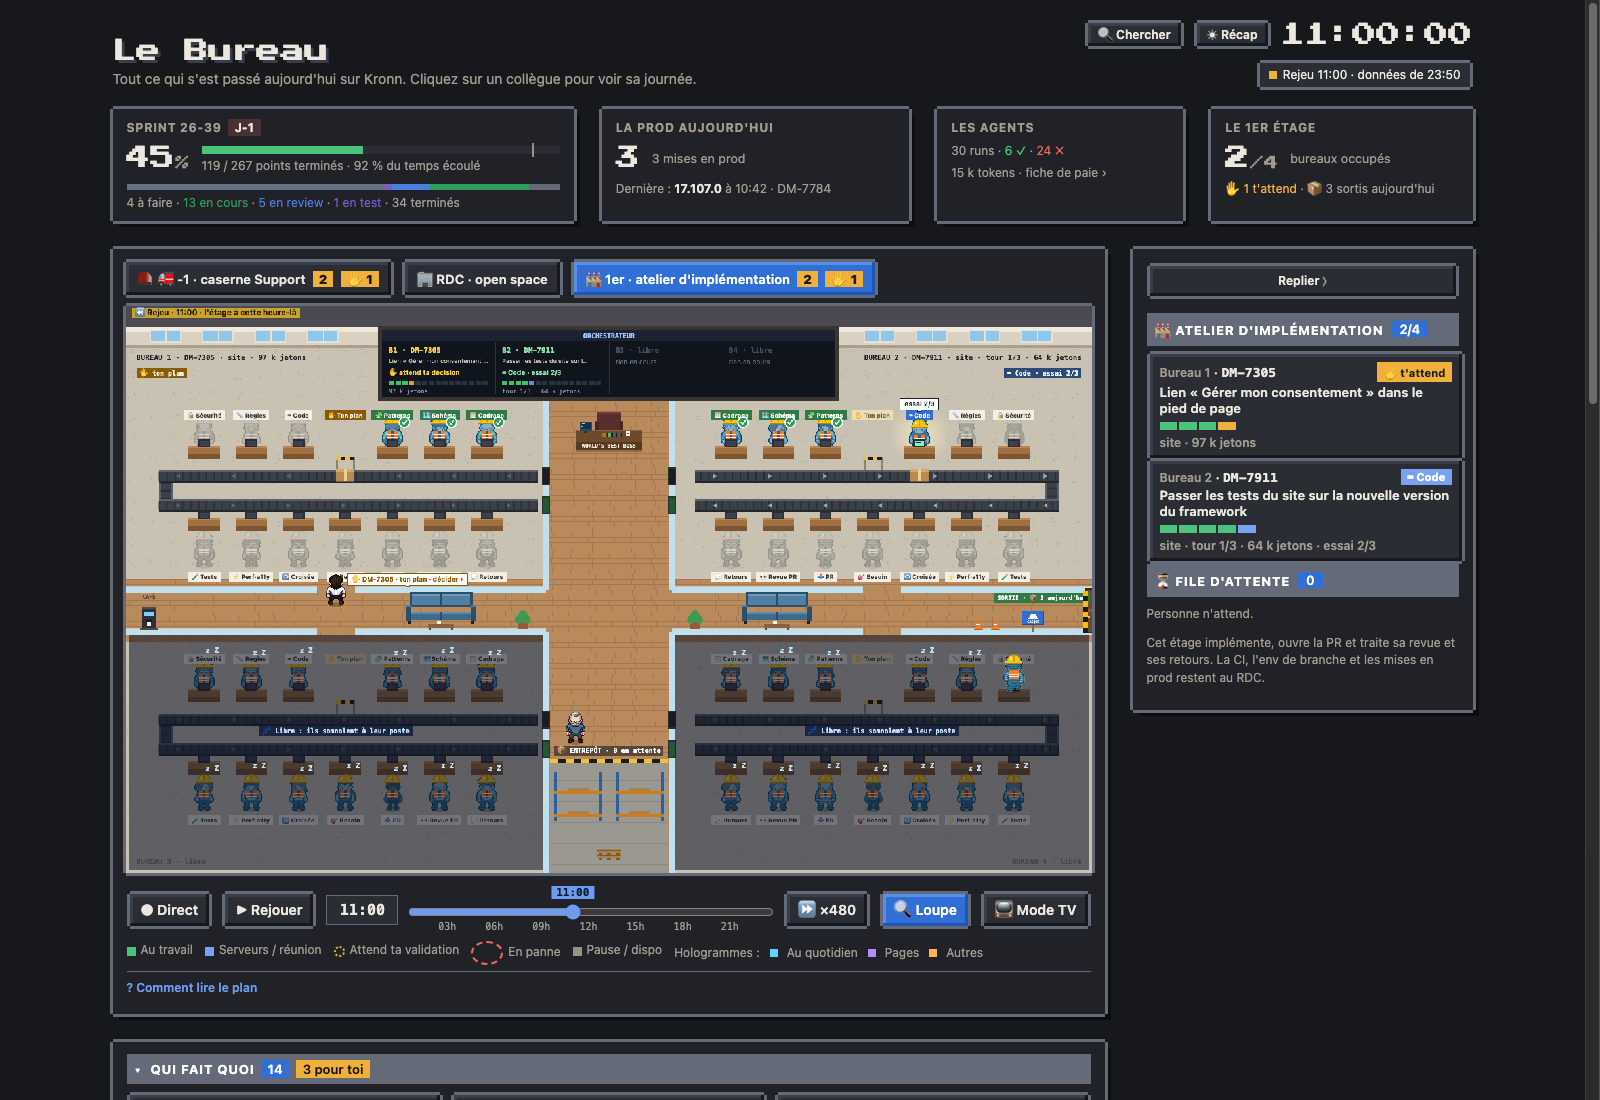
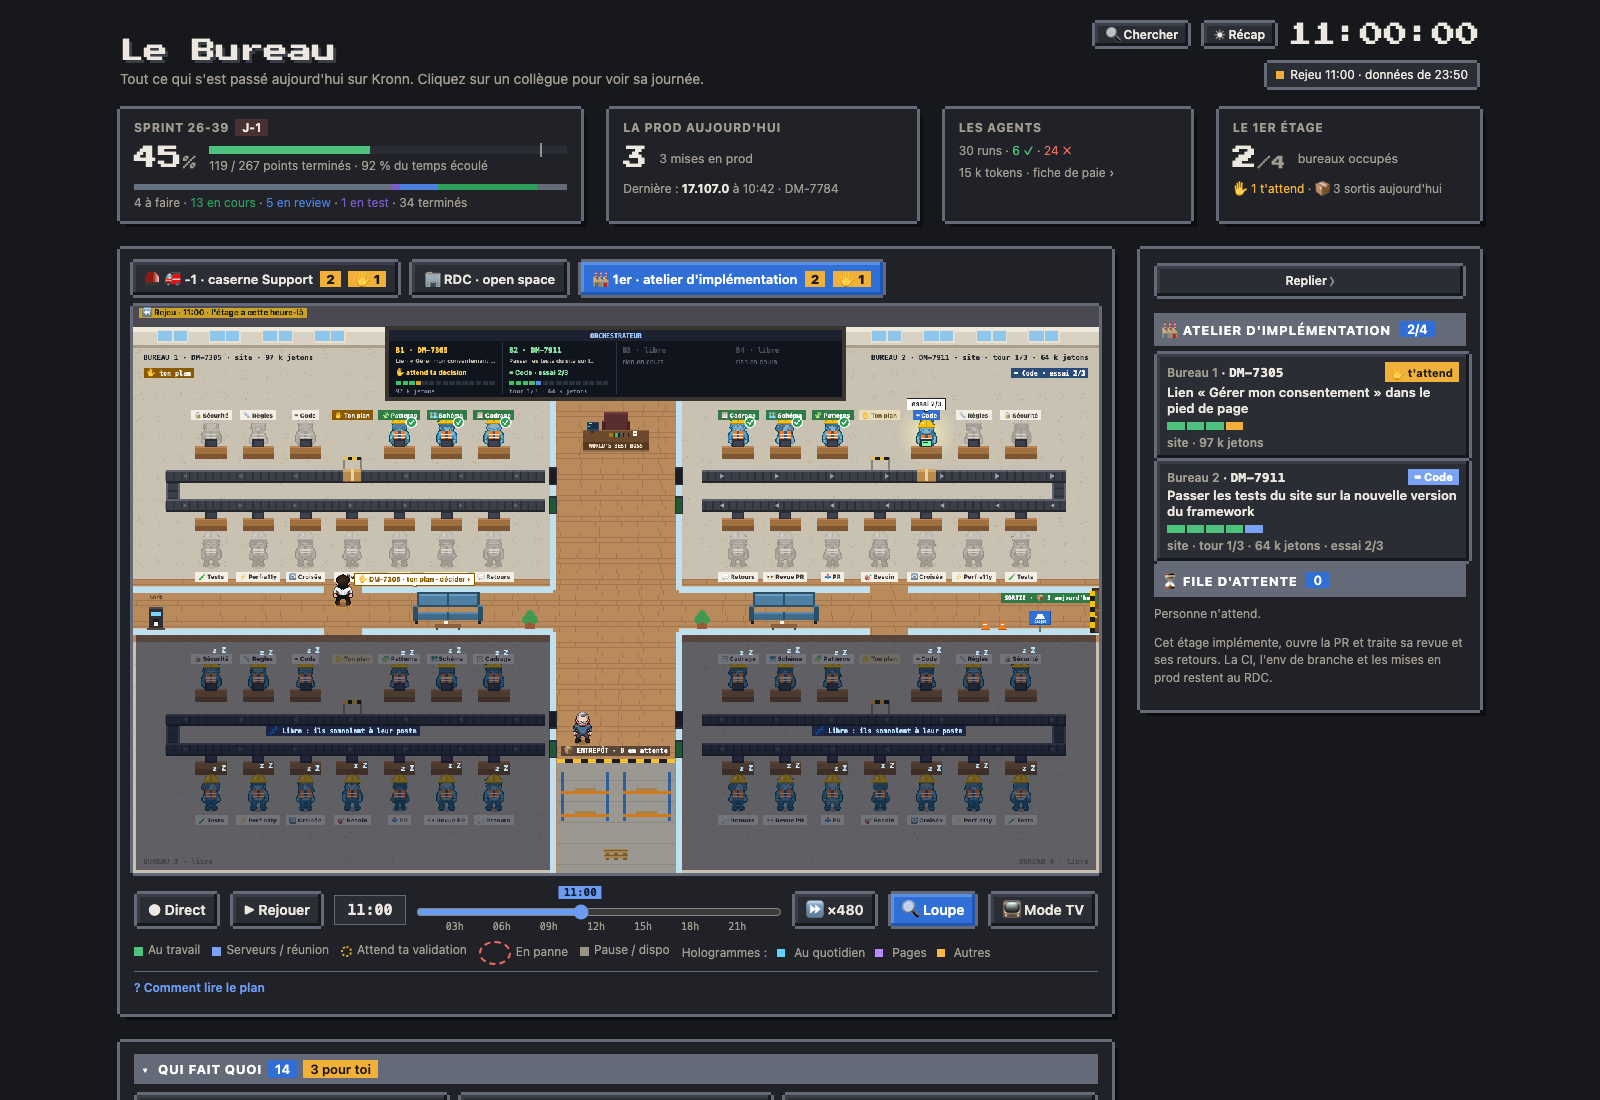
fix(etages): le ménage balaie dans les bureaux, la nuit mieux éclairée
- 1er : l'agent d'entretien restait planté à la porte de chaque bureau à se
  tourner de gauche à droite (les trois quarts de chaque étape), puis
  attendait plusieurs minutes à la sortie. Il balaie maintenant en parcourant
  l'allée de chaque bureau d'un bout à l'autre et celle de l'entrepôt
  (atCleanStops : sweep), et repart dès qu'il a rejoint la sortie.
- Nuit, 1er : chaque poste d'un bureau occupé sous sa lampe, d'après sa vraie
  place (les taches fixes rataient les bureaux du bas), la pièce et le tapis
  plus clairs, une lumière plus large pour ceux qui marchent, la lampe du
  bureau du boss toujours allumée.
- Nuit, -1 : la lampe du chef de centre plus forte, les pompiers en route
  dans leur lumière.
- Guides, CHANGELOG, captures de nuit, test de la tournée.

diff --git a/page/src/68-atelier.js b/page/src/68-atelier.js
@@ -582,8 +582,10 @@ const atCleaner=()=>chars.find(c=>c.on==='cleaning')||null;
 function atCleanVisit(c,t){const v=c&&atelierOn()&&cleaningVisit(c,t);return v?{s:v.e,e:v.e+AT_CLEAN_DUR}:null;}
 function atCleanStops(){
   const st=[{p:AT_EXIT,room:'la porte',i:null}];
-  for(const i of [1,3,2,0]){const g=AT_G[i];st.push({p:{x:g.door.x,y:g.aisle},room:'le bureau '+(i+1),i});}
-  return st.concat([{p:{x:AT_MX+1.4*AT_TS,y:20.3*AT_TS},room:'l\'entrepôt',i:null},{p:AT_EXIT,room:'la porte',i:null}]);
+  for(const i of [1,3,2,0]){const g=AT_G[i], p={x:g.door.x,y:g.aisle}, a=(g.x0+1.2)*AT_TS, b=(g.x1-1.2)*AT_TS;
+    st.push({p,room:'le bureau '+(i+1),i,sweep:[p,{x:a,y:g.aisle},{x:b,y:g.aisle},p]});} // l'allée du bureau, d'un bout à l'autre
+  const e={x:AT_MX,y:AT_DOCK.y};
+  return st.concat([{p:e,room:'l\'entrepôt',i:null,sweep:[e,{x:AT_MX,y:AT_POP.y},e]},{p:AT_EXIT,room:'la porte',i:null}]);
 }
 // point à la fraction f d'une ligne brisée, et la direction du segment
 function atAlong(pts,f){
@@ -598,7 +600,9 @@ function atCleanerAt(c,t){
   const v=atCleanVisit(c,t);if(!v||t<v.s||t>=v.e)return null;
   const st=atCleanStops(), n=st.length-1, k=(t-v.s)/(v.e-v.s)*n, j=Math.min(n-1,Math.floor(k)), f=k-j, a=st[j].p, b=st[j+1].p;
   if(f<.25){const q=atAlong([a,{x:a.x,y:AT_MY},{x:b.x,y:AT_MY},b],f/.25);return {x:q.x,y:q.y,dir:q.dir,moving:true,stop:st[j+1],v};}
-  return {x:b.x,y:b.y,dir:Math.floor(t/2000)%2?'left':'right',moving:false,stop:st[j+1],v};
+  // il balaie en avançant lentement dans la pièce (jamais planté à la porte à se tourner de gauche à droite)
+  const sw=st[j+1].sweep;if(!sw)return null; // arrivé à la porte de sortie : il est reparti (jamais planté à l'attendre)
+  const q=atAlong(sw,(f-.25)/.75);return {x:q.x,y:q.y,dir:q.dir,moving:false,sweeping:true,stop:st[j+1],v};
 }
 const atCleanLabel=m=>m.moving?'Fait le ménage du 1er étage : va vers '+m.stop.room:'Fait le ménage du 1er étage : '+m.stop.room+' · repart vers '+hm(m.v.e);
 // ---------- loupe (44-loupe.js) au 1er étage : les événements forts de l'atelier ----------
@@ -676,10 +680,14 @@ function atNight(slots,now){
     m.setTransform(1,0,0,1,0,0);m.globalCompositeOperation='source-over';m.clearRect(0,0,W_,H_);
     m.fillStyle=`rgba(${tint[0]},${tint[1]},${tint[2]},${dark})`;m.fillRect(0,0,W_,H_);
     m.setTransform(1/LQ,0,0,1/LQ,0,0);m.globalCompositeOperation='destination-out';
-    slots.forEach((r,i)=>{if(!r&&!(AT_MEM.clean&&AT_MEM.clean.stop.i===i))return;const g=AT_G[i];m.fillStyle='rgba(0,0,0,.25)';m.fillRect(g.x0*AT_TS,g.y0*AT_TS,(g.x1-g.x0)*AT_TS,(g.y1-g.y0)*AT_TS);
-      for(let x=g.x0+2;x<g.x1;x+=4)for(const y of [g.y0+3,g.y0+7.5])softSpot(m,x*AT_TS,y*AT_TS,2.6*AT_TS,.6);});
-    for(const h of AT_HITS)if(h.kind==='agent'||h.kind==='bernard'||h.kind==='cleaner'||h.kind==='pompier')softSpot(m,h.x+14,h.y+30,30,.8);
-    for(const q of AT_LIT)softSpot(m,q.x,q.y-26,30,.8); // comme au RDC (42-light.js) : le boss, et ceux qui marchent, dans leur lumière
+    slots.forEach((r,i)=>{const sweep=AT_MEM.clean&&AT_MEM.clean.stop.i===i;if(!r&&!sweep)return;const g=AT_G[i];
+      m.fillStyle=r?'rgba(0,0,0,.45)':'rgba(0,0,0,.25)';m.fillRect(g.x0*AT_TS,g.y0*AT_TS,(g.x1-g.x0)*AT_TS,(g.y1-g.y0)*AT_TS);
+      if(!r)return;
+      for(const p of AT_DESKS){const s=atSpot(g,p.k), y=s.row===1?g.feet1:g.feet2;softSpot(m,s.x,y-24,1.7*AT_TS,.9);} // chaque poste, sous sa lampe
+      softSpot(m,(g.bx0+g.bx1)/2,(g.b1+g.b2)/2+g.H/2,(g.bx1-g.bx0)/2,.5);}); // le tapis
+    for(const h of AT_HITS)if(h.kind==='agent'||h.kind==='bernard'||h.kind==='cleaner'||h.kind==='pompier')softSpot(m,h.x+14,h.y+30,42,.95);
+    for(const q of AT_LIT)softSpot(m,q.x,q.y-26,42,.95); // comme au RDC (42-light.js) : le boss, et ceux qui marchent, dans leur lumière
+    softSpot(m,AT_CHAIR.x,AT_CHAIR.y-14,3.2*AT_TS,.9); // la lampe du bureau du boss, toujours allumée
     softSpot(m,23*AT_TS,2.6*AT_TS,6*AT_TS,.7); // le grand tableau
     softSpot(m,46*AT_TS-10,AT_HY0*AT_TS+20,40,.5);softSpot(m,1.1*AT_TS,AT_HY1*AT_TS-20,30,.5); // la sortie, la machine à café
     const l=AT_NIGHT_CV[1].getContext('2d');l.clearRect(0,0,W_,H_);l.filter='blur(3px)';l.drawImage(AT_NIGHT_CV[0],0,0);l.filter='none';
@@ -708,7 +716,7 @@ function renderAtelier(now){
     if(!a)continue;a.moving=w.phase!=='stay';a.pose='stand';a._st={st:'idle'};a._at={i:w.i,k:w.k,s:'wander'};people.push([a,null,false]);
     atHit('agent',w.walk.pos.x-14,w.walk.pos.y-56,28,58,{i:w.i,k:w.k});}
   atScenes(now,dt,people);
-  if(AT_MEM.clean){const m=AT_MEM.clean, a=Object.assign(Object.create(Object.getPrototypeOf(cl)),cl,{pos:{x:m.x,y:m.y},tile:null,dir:m.dir,moving:m.moving,pose:'stand',present:true,_st:{st:'idle'}});
+  if(AT_MEM.clean){const m=AT_MEM.clean, a=Object.assign(Object.create(Object.getPrototypeOf(cl)),cl,{pos:{x:m.x,y:m.y},tile:null,dir:m.dir,moving:m.moving||!!m.sweeping,pose:'stand',present:true,_st:{st:'idle'}});
     const [dx,dy]={left:[-20,0],right:[20,0]}[m.dir]||[20,2];
     people.push([a,()=>drawCart({x:m.x+dx,y:m.y+dy}),false,()=>{if(!m.moving)E('🧹',m.x,m.y-66,12);}]);atHit('cleaner',m.x-14,m.y-56,28,58,{});}
   atBoss(slots,now,dt,people);

diff --git a/page/src/68-caserne.js b/page/src/68-caserne.js
@@ -382,8 +382,9 @@ function csNight(slots,now){
     const m=CS_NIGHT_CV[0].getContext('2d');m.setTransform(1,0,0,1,0,0);m.globalCompositeOperation='source-over';m.clearRect(0,0,W_,H_);
     m.fillStyle='rgba(10,14,40,.5)';m.fillRect(0,0,W_,H_);m.setTransform(1/LQ,0,0,1/LQ,0,0);m.globalCompositeOperation='destination-out';
     slots.forEach((s,b)=>{if(!s)return;const z=CS_G[b];softSpot(m,z.cx,(CS_DY1-1)*T,4*T,.7);softSpot(m,z.cx,(CS_R1+.5)*T,4.5*T,.8);softSpot(m,z.cx,(CS_R2+.3)*T,4*T,.7);});
-    softSpot(m,40.5*T,23.4*T,4.5*T,.55);softSpot(m,40.6*T,4.2*T,5*T,.7);softSpot(m,CS_POLE.x,CS_POLE.y1-1.2*T,2.2*T,.6);softSpot(m,CS_DESK.x,CS_DESK.y,2.5*T,.45);
-    for(const q of CS_LIT)softSpot(m,q.x,q.y-26,30,.8); // le capitaine dans sa lumière, à son bureau ou en route vers la vanne
+    softSpot(m,40.5*T,23.4*T,4.5*T,.55);softSpot(m,40.6*T,4.2*T,5*T,.7);softSpot(m,CS_POLE.x,CS_POLE.y1-1.2*T,2.2*T,.6);softSpot(m,CS_DESK.x,CS_DESK.y-10,3.6*T,.9); // la lampe du bureau du chef de centre, toujours allumée
+    for(const q of CS_LIT)softSpot(m,q.x,q.y-26,42,.95); // le capitaine dans sa lumière, à son bureau ou en route vers la vanne
+    for(const w of CS_MEM.walk||[])if(w.pos)softSpot(m,w.pos.x,w.pos.y-26,40,.9); // les pompiers qui descendent, courent ou remontent
     const l=CS_NIGHT_CV[1].getContext('2d');l.clearRect(0,0,W_,H_);l.filter='blur(3px)';l.drawImage(CS_NIGHT_CV[0],0,0);l.filter='none';}
   const sm=ctx.imageSmoothingEnabled;ctx.imageSmoothingEnabled=true;ctx.drawImage(CS_NIGHT_CV[1],0,0,AT_W,AT_H);ctx.imageSmoothingEnabled=sm;
 }

diff --git a/tests/atelier.test.js b/tests/atelier.test.js
@@ -427,3 +427,16 @@ test('rejeu : l\'étage reconstruit à l\'heure du curseur, scènes au fil du cu
   assert.equal(J2('AT_MEM.scenes[0].phase'), -1);
   assert.deepEqual(J2('AT_MEM.scenes[0].walk.path.pop()'), J2('AT_POP'), 'il va au colis');
 });
+
+test('le ménage du 1er : il balaie en parcourant chaque bureau et l\'entrepôt, jamais planté, et repart à la porte', () => {
+  const p = load(), J2 = c => JSON.parse(p.run('JSON.stringify(' + c + ')'));
+  p.run(`CFG.atelier = true; var __c = atCleaner(), __v = {s: 0, e: AT_CLEAN_DUR}; var __cv = atCleanVisit; atCleanVisit = () => __v;`);
+  const pts = J2(`Array.from({length: 81}, (_, k) => atCleanerAt(__c, __v.s + (__v.e - __v.s) * k / 81)).map(m => m && [m.stop.room, Math.round(m.x), Math.round(m.y), !!m.sweeping])`);
+  for (const room of ['le bureau 2', 'le bureau 4', 'le bureau 3', 'le bureau 1', 'l\'entrepôt']) {
+    const sw = pts.filter(x => x && x[0] === room && x[3]);
+    assert.ok(sw.length >= 3, room);
+    assert.ok(new Set(sw.map(x => x[1] + ',' + x[2])).size >= 3, room + ' : il avance en balayant');
+  }
+  assert.equal(pts[80], null, 'arrivé à la sortie, il est reparti');
+  p.run('atCleanVisit = __cv;');
+});

diff --git a/guide/fonctionnalites/23-atelier.md b/guide/fonctionnalites/23-atelier.md
@@ -25,11 +25,11 @@ Les workflows de l'étage (la chaîne et ses postes, modèles `impl*`) ne passen
 - **L'entrepôt**, en bas du couloir central : les tickets en attente sur les rayonnages, les tickets en panne sur des palettes (🧯, à relancer).
 - **Les livraisons** : un ticket qui arrive apparaît au fond de l'entrepôt (« ✨ DM-7305 arrive du RDC ») ; **Bernard** (le manutentionnaire : âgé, un peu dégarni, lunettes, blouse bleue) va le chercher et l'apporte à la trappe d'entrée avec son transpalette ; un ticket qui sort (PR ouverte) attend à la trappe de sortie, Bernard vient le chercher et repart par la porte de sortie. Il n'y a qu'un Bernard : les livraisons passent l'une après l'autre, et entre deux il attend à l'entrepôt, à droite, où un compteur dit combien de tickets sont sortis aujourd'hui. Le café est au bout gauche du couloir ; deux canapés (avec leur table basse) sont entre chaque porte et le couloir central, jamais devant une porte.
 - **Les thèmes** : les agents portent les chapeaux du RDC. À Noël, Bernard devient le Père Noël, les cartons sont des paquets cadeaux, une guirlande court sur le grand tableau et un sapin attend dans le couloir ; à Halloween, Bernard passe en fantôme avec sa citrouille, les cartons sont des citrouilles et une toile d'araignée pend au tableau ; au Nouvel an et à la Saint-Valentin, des ballons dans le couloir (et un cœur qui s'envole quand un poste rend son ✓, une rose sur le bureau du boss).
-- **Le ménage du soir** : après sa tournée du RDC, l'agent d'entretien monte au 1er pour 40 minutes, avec son chariot. Il entre par la porte de sortie, balaie chaque bureau (2, 4, 3, 1, le bureau où il passe s'éclaire), puis l'entrepôt, et repart. Comme au RDC, sa tournée suit l'heure du plan : « Rejouer » la montre, et le fil le dit (« a fini le RDC, il monte au 1er étage », puis « a fini le ménage, tout est propre »).
+- **Le ménage du soir** : après sa tournée du RDC, l'agent d'entretien monte au 1er pour 40 minutes, avec son chariot. Il entre par la porte de sortie, balaie chaque bureau (2, 4, 3, 1, le bureau où il passe s'éclaire) en le parcourant d'un bout à l'autre, puis l'allée de l'entrepôt, et repart dès qu'il a rejoint la porte. Comme au RDC, sa tournée suit l'heure du plan : « Rejouer » la montre, et le fil le dit (« a fini le RDC, il monte au 1er étage », puis « a fini le ménage, tout est propre »).
 
 ![Le ménage du soir au 1er étage : l'agent d'entretien balaie le bureau 4](../img/atelier-menage.png)
 
-- **Jour et nuit**, comme au RDC : des fenêtres au-dessus des bureaux 1 et 2 prennent la couleur du ciel (soleil à Paris, étoiles la nuit). Hors des heures de bureau, l'éclairage baisse ; seuls restent allumés les bureaux qui ont un ticket (la chaîne tourne aussi la nuit), le grand tableau et la sortie. Comme au RDC, le boss reste à son fauteuil le soir et le week-end, et les agents restent à leur poste (ceux des bureaux libres somnolent et se promènent comme en journée) ; seul Bernard rentre chez lui. Le soir, chacun a sa lumière, comme au RDC : le boss, les agents à leur poste et ceux qui marchent (promeneurs, Bernard, l'agent d'entretien, le pompier) ; elle les suit quand ils se déplacent.
+- **Jour et nuit**, comme au RDC : des fenêtres au-dessus des bureaux 1 et 2 prennent la couleur du ciel (soleil à Paris, étoiles la nuit). Hors des heures de bureau, l'éclairage baisse ; seuls restent allumés les bureaux qui ont un ticket (la chaîne tourne aussi la nuit : chaque poste sous sa lampe, le tapis éclairé), le grand tableau, la lampe du bureau du boss et la sortie. Comme au RDC, le boss reste à son fauteuil le soir et le week-end, et les agents restent à leur poste (ceux des bureaux libres somnolent et se promènent comme en journée) ; seul Bernard rentre chez lui. Le soir, chacun a sa lumière, comme au RDC : le boss, les agents à leur poste et ceux qui marchent (promeneurs, Bernard, l'agent d'entretien, le pompier) ; elle les suit quand ils se déplacent.
 - **Les trajets** : le tapis laisse une allée le long du mur extérieur (à gauche des bureaux 1 et 3, à droite des bureaux 2 et 4). Un agent qui sort passe derrière sa rangée, fait le tour par cette allée si sa rangée est loin de la porte, puis sort par la porte : il ne marche plus sur le tapis ni sur les autres.
 - **Rejouer** : l'étage suit l'heure du plan, comme le RDC. En rejeu ou en pause, il est reconstruit à cette heure-là d'après les moments du relevé (24 h) : bureaux occupés, poste du carton, gate ouverte ; le bandeau « ⏪ Rejeu · 09:36 » le rappelle. Les scènes (Bernard qui apporte ou emporte un carton) se jouent quand le curseur avance sur ce moment, en lecture ou en glissant doucement ; « ⏵ revoir » sur une ligne du 1er dans le fil monte à l'étage et la rejoue en ×1. Un saut du curseur pose l'étage sans rejouer, sauf une arrivée ou une sortie de moins de 2 min, qui se joue quand même (en direct aussi, en montant à l'étage).
 

diff --git a/guide/fonctionnalites/25-caserne.md b/guide/fonctionnalites/25-caserne.md
@@ -12,6 +12,7 @@ L'onglet « 🚒 -1 · caserne Support » apparaît avant « 🏢 RDC · open sp
 
 - **Trois baies de camion.** Un fil du Support en investigation, une réponse à valider ou une investigation en panne occupe une baie. Un fil garde sa baie jusqu'à la fin ; au-delà de trois, le tableau des interventions dit combien attendent une baie libre. Une baie libre reste fermée.
 - **L'équipe devant son camion**, dans la zone peinte en jaune au sol, rangée dans l'ordre des postes : 🏷 Tri, 🔎 Logs, 🧩 Cause, ✉ Réponse au premier rang, puis 🧐 Relecture, ✋ Toi et 📣 Teams au second. Ce sont des agents : des hologrammes bleus, comme au RDC et au 1er étage, avec la tenue des sapeurs-pompiers (casque F1 chromé, bandes jaune et argent). Seul le capitaine, le boss, est en chair et en os. Même langage qu'au 1er étage : **au travail** (un halo, une bulle, il arrose), **a travaillé** (✓), **attend son tour** (silhouette grise), **en panne** (! rouge et fumée, « relance l'investigation »).
+- **La nuit**, la lampe du bureau du chef de centre reste allumée, et les pompiers qui descendent la barre ou remontent ont leur lumière.
 - **Rejouer** : la caserne suit l'heure du plan. En rejeu, une intervention est à sa baie de son départ à la réponse postée, ses postes avancent avec les étapes du run, et le capitaine est à la vanne pendant que la gate attendait ; l'arrivée des pompiers et le départ du camion se jouent quand le curseur passe dessus (un saut pose la caserne, sauf une arrivée de moins de 2 min, qui se joue quand même, en direct aussi en descendant).
 - **Le tuyau** part de l'arrière du camion et passe de main en main dans l'ordre des postes : plein et jaune jusqu'au poste au travail, en pointillé gris pour ceux qui viennent ensuite. On lit l'avancement à la longueur de tuyau plein.
 - **✋ La vanne** : quand la réponse est relue, elle attend ta validation. Le capitaine (le boss, casque à bande rouge) quitte son bureau et vient ouvrir la vanne de la baie. Le pack d'équipe peut lui donner un dessin de pompier à part : `captain_sprite` sur la personne du boss dans `roster.json` (un sprite du pack, comme `boss_sprite`) ; il garde son nom, sa fiche et son rôle, seul son dessin change, et seulement à la caserne.

diff --git a/CHANGELOG.md b/CHANGELOG.md
@@ -6,6 +6,10 @@ Format : [Keep a Changelog](https://keepachangelog.com/fr/1.1.0/). Versions : `0
 
 ## [Unreleased]
 
+### Corrigé
+
+- 1er étage : l'agent d'entretien ne reste plus planté à la porte d'un bureau à se tourner de gauche à droite ; il balaie en parcourant chaque bureau d'un bout à l'autre et l'allée de l'entrepôt, et repart dès qu'il a rejoint la sortie (il y attendait plusieurs minutes). La nuit, les bureaux occupés sont bien éclairés (chaque poste sous sa lampe, rangées du haut comme du bas, le tapis), ceux qui marchent ont une lumière plus large, et la lampe du bureau du boss (1er) comme celle du chef de centre (-1) reste allumée ; au -1, les pompiers en route ont leur lumière. Guides : [L'atelier](guide/fonctionnalites/23-atelier.md), [La caserne](guide/fonctionnalites/25-caserne.md). Après la mise à jour : `publish.py page`.
+
 ### Ajouté
 
 - Rejouer aux étages : le 1er et le -1 suivent l'heure du curseur, comme le RDC. Le 1er se reconstruit d'après les moments datés du relevé (le relevé note désormais le début de chaque poste), avec le bandeau « ⏪ Rejeu » ; au -1, un run pas encore fini à l'heure du plan est en cours (ou à sa gate) et un fil n'est répondu qu'après sa réponse. Les scènes (Bernard, l'arrivée des pompiers, le camion) se jouent quand le curseur passe dessus ; un saut pose l'étage, sauf un moment de moins de 2 min, rattrapé aussi en direct en montant à l'étage. « ⏵ revoir » sur une ligne du 1er monte à l'étage. Guides : [Rejouer](guide/fonctionnalites/05-rejouer.md), [L'atelier](guide/fonctionnalites/23-atelier.md), [La caserne](guide/fonctionnalites/25-caserne.md). Après la mise à jour : `publish.py all`.
